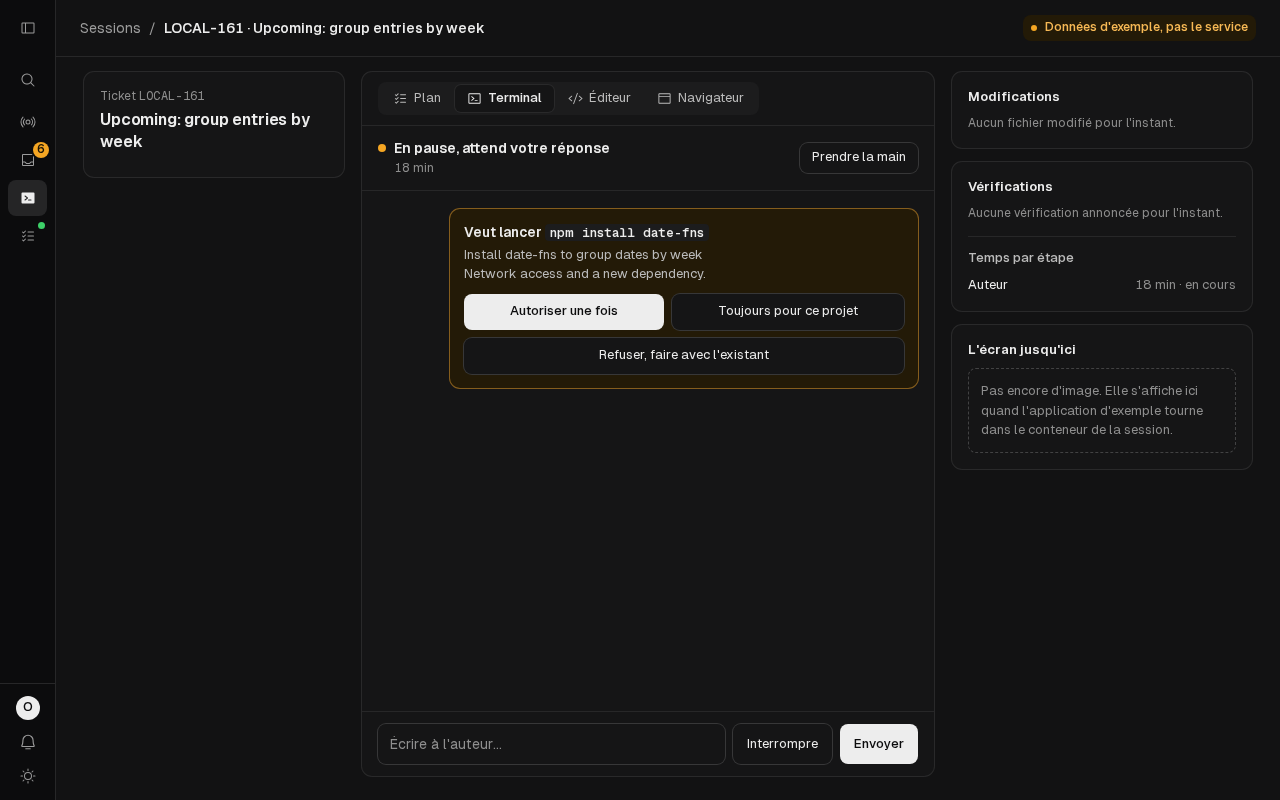
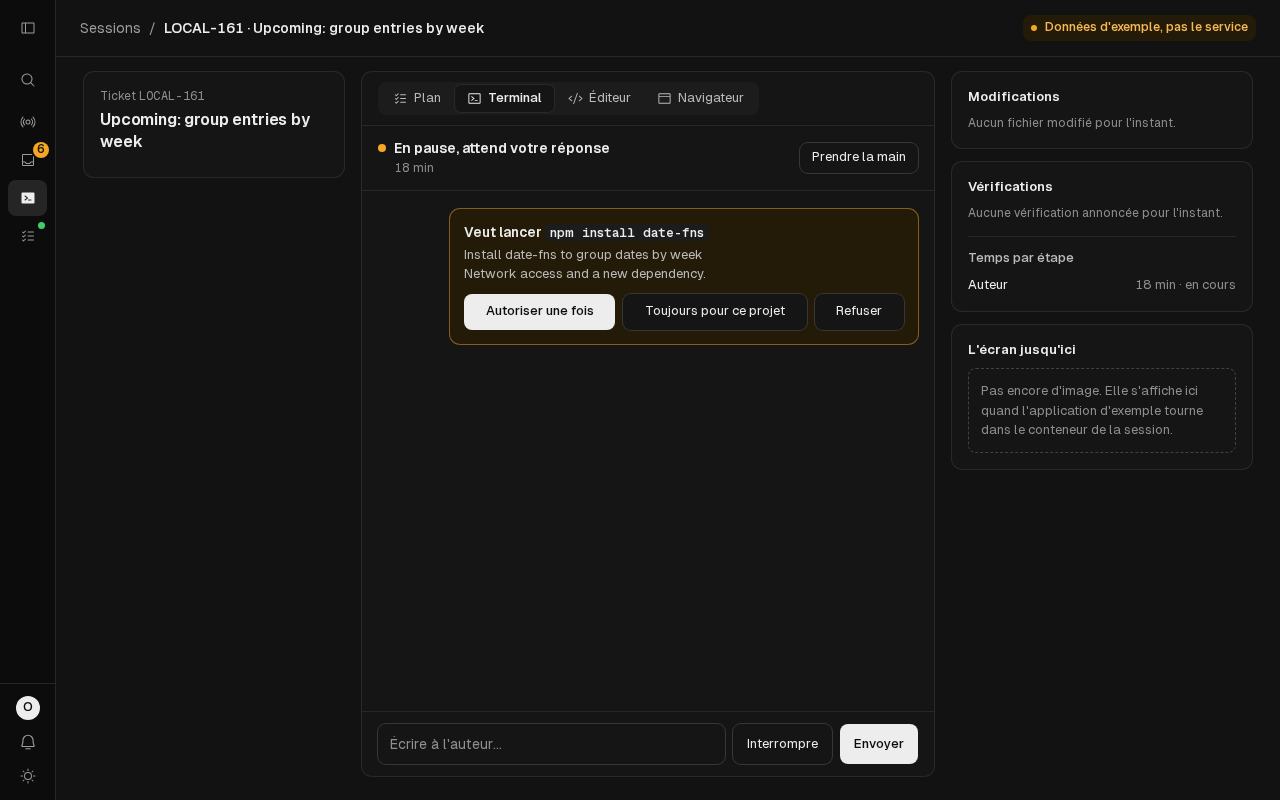
v2 ui inbox fr: the lane's log entry; the session's Deny a verb; a row's answer keeps the focus on the detail once the cache moves the item; the session's after captures again

Changed region(s): [[0.375, 0.3438, 0.6875, 0.4688]]

diff --git a/v2/app/web/screens/inbox/Inbox.tsx b/v2/app/web/screens/inbox/Inbox.tsx
@@ -316,7 +316,7 @@ function PermissionAnswers({ item, view, t, note, reason, onReason, onAct }: {
   const busy = local?.kind === 'busy';
   const status = <p className="d-note" id="d-note" role="status">{note}</p>;
   if (local?.kind === 'settled') return <><p className="d-done">{t('settled')}</p>{status}</>;
-  if (local?.kind === 'answered') return <><p className="d-done" id="d-done" tabIndex={-1}>{t(`answered_${local.decision}`)}</p>{status}</>;
+  if (local?.kind === 'answered') return <><p className="d-done" id="d-done">{t(`answered_${local.decision}`)}</p>{status}</>;
   if (item.state === 'handled') return <><p className="d-done">{t('handled_note')}</p>{status}</>;
   const act = (name: Answer, primary: boolean) => (
     <Button variant={primary ? 'ink' : 'outline'} className={primary ? 'btn primary' : 'btn'} data-act={name} disabled={busy} onClick={() => onAct?.(name)}
@@ -739,6 +739,16 @@ export default function Inbox() {
   // the request shown, Space peeks at the row walked to; Esc leaves the item,
   // never from a field (the text typed there stays). Handled here, the shell
   // leaves them alone (preventDefault).
+  // Once the answer is drawn, the detail takes the focus (the pressed button
+  // is gone with the answers); the detail's inside is drawn again when the
+  // cache moves the item to what was handled, the detail itself stays.
+  const focusDone = useRef(false);
+  useLayoutEffect(() => {
+    if (!focusDone.current || !document.getElementById('d-done')) return;
+    focusDone.current = false;
+    detail.current?.focus({ preventScroll: true });
+  });
+
   const keyState = useRef({ shown: undefined as Item | undefined, visible: false, busy: false });
   useEffect(() => {
     let lastG = -Infinity;
@@ -778,10 +788,10 @@ export default function Inbox() {
       const after = await run();
       change((next) => { if (after) next.set(item.id, after); else next.delete(item.id); });
       setNote('');
-      // An answer's line takes the focus, where the pressed button was, and is said once.
+      // The answer is said once, and the detail that shows it takes the focus.
       if (after?.kind === 'answered') {
         setSaid(t(`answered_${after.decision}`));
-        requestAnimationFrame(() => document.getElementById('d-done')?.focus({ preventScroll: true }));
+        focusDone.current = true;
       }
       if (gesture === 'plan_change' || gesture === 'contract_send_back') setMessage('');
       context.inboxChanged();
@@ -910,6 +920,7 @@ export default function Inbox() {
     if (location.hash !== `#${encodeURIComponent(item.id)}`) {
       peeking.current = true;                        // the answer's line takes the focus, not the detail
       location.hash = encodeURIComponent(item.id);
+      setHash(location.hash);                        // the detail shows it now, not at the hashchange (which would draw it again)
     }
     onAct(act, { reason: '', answers: noAnswers(undefined), message: '' }, item);
   };

diff --git a/v2/app/test/inbox/inbox-browser.test.ts b/v2/app/test/inbox/inbox-browser.test.ts
@@ -153,7 +153,7 @@ test('the "Traité" group is folded under what waits, with its count, and opens 
   });
 });
 
-test('a row\'s answer shows its item, says what it did there, and puts the focus on that line', { skip }, async () => {
+test('a row\'s answer shows its item, says what it did there, and puts the focus on its detail', { skip }, async () => {
   await withInbox(async (page, base) => {
     const sent: string[] = [];
     await page.route(/\/api\/service\/sessions\/[^/]+\/requests\/[^/]+\/answer$/, async (route: any) => {
@@ -166,7 +166,9 @@ test('a row\'s answer shows its item, says what it did there, and puts the focus
     await page.locator('#detail .d-done').waitFor();
     assert.match(await page.evaluate(() => document.location.hash), /request-review-1/, 'the answered item is the one shown');
     assert.equal((await page.locator('#detail .d-done').innerText()).trim(), 'Refusé. Le motif est transmis à la session.');
-    await page.waitForFunction(() => document.activeElement?.id === 'd-done', undefined, { timeout: 2000 });
+    await page.waitForFunction(() => document.activeElement?.id === 'detail', undefined, { timeout: 2000 });
+    await page.waitForTimeout(300);
+    assert.equal(await page.evaluate(() => document.activeElement?.id), 'detail', 'and it stays there once the cache has moved the item');
     assert.equal((await page.locator('#inbox-live').innerText()).trim(), 'Refusé. Le motif est transmis à la session.');
     assert.equal(sent.length, 1);
     assert.match(sent[0] ?? '', /\/requests\/request-review-1\/answer$/);

diff --git a/v2/app/web/test/session/render.test.tsx b/v2/app/web/test/session/render.test.tsx
@@ -36,7 +36,7 @@ test('the English screen reads as the capture, in milestone 1\'s words', () => {
     TICKET_TITLE, 'LOCAL-161', 'Done when', 'Entries grouped by week, Monday first', 'Same totals as today, a test proves it', 'Plan of the session',
     'Paused, waiting for you', '18 min · 35,500 tokens',
     'Read', 'src/screens/Upcoming.jsx', 'and 2 more files', 'Edit', 'src/engine/upcoming.mjs', '+24', '−6', 'Run the project\'s tests', 'npm run test:upcoming', '18 passed', QUESTION_TEXT, ANSWER_TEXT,
-    'Wants to run', 'npm install date-fns', 'Network access and a new dependency.', 'Allow once', 'Always in this project', 'Deny, use what we have',
+    'Wants to run', 'npm install date-fns', 'Network access and a new dependency.', 'Allow once', 'Always in this project', 'Deny',
     'Changes', 'Checks', 'Targeted tests', 'Full suite', 'Screen so far', 'Hand over to Codex', 'Interrupt', 'Send',
   ]) assert.ok(text.includes(expected), `missing: ${expected}`);
 });

diff --git a/v2/app/web/screens/inbox/inbox.css b/v2/app/web/screens/inbox/inbox.css
@@ -100,7 +100,6 @@
 .d-answers .btn kbd { background: transparent; box-shadow: inset 0 0 0 1px currentColor; color: inherit; opacity: .6; }
 .d-answers .deny-reason { flex: 1 1 240px; }
 .d-answers .deny-reason input { height: 44px; }
-.d-done:focus { outline: none; }
 .d-answers .d-done { flex: 1 1 100%; padding: var(--space-2) var(--space-3); border-radius: var(--radius); background: var(--sunken); }
 .d-actions:empty { display: none; }
 .fold { margin-top: var(--space-3); border-top: 1px solid var(--hairline); padding-top: var(--space-2); }

diff --git a/docs/v2/decisions-log.md b/docs/v2/decisions-log.md
@@ -3456,3 +3456,128 @@ The sidebar costs about 3 to 4 ms per switch on this server. Its props are kept 
 
 - Pull request: 251, against `v2`.
 - Author: Opus 5.5 (claude-opus-5-5), lane `v2-j2-ui-session-continuity`.
+
+## 2026-10-23: the inbox's requests in French, the reason by its code, the three answers, the "Traité" group, the whole app in French (the author's choices, lane 37, `v2-j2-ui-inbox-fr`)
+
+**Decision.** On 2026-10-23 between 02:30 and 04:30 (Europe/Paris), lane 37 of the interface overhaul ([ui-overhaul-plan.md](ui-overhaul-plan.md), section 7) delivers requirements 2.5.1 to 2.5.6 and decision U9 on the inbox, on lane 36's `lib/intent.ts` (pull request 251, merged into the lane through `origin/v2`).
+
+- **The title is the intent (2.5.1, U9).** A request's row and its detail are named by the app's sentence, computed from the command by lane 36's function, whatever the harness wrote ("Installer date-fns", "Lire l'historique et le diff du dépôt puis lancer les tests du projet"). The inbox reads `intent.ts` unchanged and adds three things in its own model (`permissionTitle`, `screens/inbox/model.ts`):
+  - French joins two intents with "puis" in a title and "puis à" after "Autoriser … à", so the preposition is repeated and the double "et" is gone (the critique). English keeps "and". The session screen's checks keep lane 36's "et".
+  - A command the table does not know is said by its first word ("Lancer docker"), not "docker …", which read as cut off.
+  - **A command the table cannot read whole is not summarised.** A write to a file (`>`, `>>` to anything but `/dev/null`), a substitution (`$( )`, a backtick), a heredoc, a process substitution, `eval` or `source`, a shell given `-c` or an interpreter given `-c` or `-e`: its title is "Lancer une commande composée" and its fold opens by itself (`opaque`, `foldOpen`). The audit showed `intent.ts` saying "Lire des fichiers" for `cat secrets.env > /tmp/x`; on the screen that approves the command, that would misstate it.
+  - The other tools say what they do: "Lire un fichier", "Modifier un fichier", "Lire une page du web", "Utiliser {tool}".
+- **The request as a question.** The detail's heading is the request asked of the person, naming who asks: "Autoriser le relecteur à lire l'historique et le diff du dépôt puis à lancer les tests du projet ?" (the author, the reviewer, the lead, the reader, or the session). The plan placed this question in the eyebrow above the intent title; the two would say the same thing twice, so the question is the heading and the eyebrow keeps the kind, the ticket and the session's link. A handled request is headed by its intent title.
+- **The command folded (2.5.2).** Under the facts, a `<details>` closed by default holds the command one part per line after its operator (`;`, `&&`, `||`, `|`), cut for display only by `commandParts`. Its summary shows the first part and how many more ("git log -5 --oneline +4"), so the person deciding sees that a chain hides more. It also holds the harness's own description ("Pour quoi faire") and, with no code, the policy's sentence.
+- **The reason by its code (2.5.3).** `PermissionItem.reasonCode` is added to the API types, optional, with its closed list `REASON_CODES` (`compound`, `not_allowed`, `network`, `dependency`, `outside_checkout`, `unknown`); `test/api/types.test.ts` pins it. The policy lane fills it; pull request 240 did not, so no service request carries it yet. The inbox says the codes it knows in French ("« git merge-base » n'est pas une commande que la politique autorise seule." names the part the policy's sentence names). Until the policy sends codes, the two rules whose meaning is one of them give it (`install.package` is `dependency`, `network` is `network`). Any other rule, an `unknown` code or a code the app does not know yet shows the policy's English sentence as written, in the fold under "Texte de la règle".
+- **The three answers (2.5.4).** "Autoriser une fois" (ink), "Toujours pour ce projet" and "Refuser" are at the top of the detail, before the facts, at every width; a browser test checks they are in the window without scrolling at 1440, 1280, 768 and 390. "Toujours pour ce projet" is the owner's wording, in the inbox, the session screen and the palette. From 1280 px each waiting request's row carries the same three answers, except the row of the request shown, whose answers are beside it (the audit: never twice). The list is 440 px wide from 1280 px so they hold on one line. A row's answer shows its item and says what it did there; a persistent live region says it once, and the focus goes to the detail. The detail's inside is drawn again when lane 34's optimistic cache moves the item to what was handled, so the focus stays on the detail region, which is not redrawn. The deny reason field sits under the answers ("Motif du refus (facultatif)"), and Enter in it refuses. The sticky bar at the detail's foot stays for the other kinds and holds nothing for a request.
+- **The "Traité" group (2.5.5).** What was handled and what expired sit in one group under what waits, folded by default with its count ("Traité · 2"), opened by its button, and opened by itself when the address names one of its items. Its rows are lighter and keep their intent title. What waits has a quiet heading with its count ("En attente · 6"). The API does not say whether a handled request was answered or expired (the store knows `handled_by`; `PermissionItem` has no outcome), so both read "ne vous attend plus": a follow-up below.
+- **The inbox's keys (issue 253, item 4).** `SCREEN_KEYS.inbox` in `shell/keys.ts` lists A ("Autoriser une fois la demande affichée"), T, R and Space (a peek: the walked row's item shown, the focus kept on the row, only where the detail sits beside the list). The inbox binds them itself (`inboxKey`), so the sheet lists exactly what is bound, on the inbox only, which a test holds both ways. A key right after a G belongs to the shell's chord, so G then T goes to the tower and never answers; A, T and R from another walked row do nothing (the person is reading that one). `keyLabel` writes Space as "Espace". Esc leaves the item but never from a field: the text typed in the deny reason, a Change or a Send back stays (lane 34's audit, P1).
+- **One name for the place.** The sidebar's "Réception" is now the top bar's, the back link's and the shortcut's name in French too; the sentences that said "la boîte de réception" say "la liste". The heading that repeated the top bar is gone (lane 35's art director).
+- **The list's look.** Rows on hairlines, as the tower's; the shown row filled (`--selected`), the keyboard's focus the app's outline ring, two looks (lane 34's art director); no row marked shown under 1024 px until one is open. One amber signal per waiting row, its kind as text, not a pill. The detail's type on lane 35's scale (20, 14 and 12 px, 400 and 550). On a phone the answers are one per row, the key caps hidden (also under `hover: none`), and the group's button and the fold's summary 44 px tall.
+- **French typography.** The inbox's French catalog has a narrow no-break space before "?", "!" and ";" and a no-break space before ":" and inside « », written as the escapes `\u202f` and `\u00a0`. The plan panel's keys keep the lead's catalog's values, which a test holds equal; aligning both is lane 38's.
+
+**The whole app in French (2.5.6).** `app/web/test/french.test.tsx` draws, in fr, on the fixtures:
+- the sign-in page and its three errors;
+- the tower, the sidebar and the sessions index;
+- a session;
+- the lead and both questions to the code;
+- the inbox: every kind, waiting and handled, each detail in thirteen local states;
+- the palette and the sheet on six screens;
+- the dates, the durations, the decimal comma, the space before % and the plural.
+
+It fails on any marked key (a key a catalog lacks) and on any text that is a catalog's English that French does not share; the fixtures' own words are data and pass. A template with no word of its own ("{n}%") is not read. The test is first run on the English app to prove it catches English. On the code before the lane it fails twice:
+- the tower calls a request "Permission" where the inbox says "Autorisation";
+- the inbox's sheet lists none of its own keys.
+
+No catalog key was missing: lanes 34 and 35's catalog test already held both catalogs alike. The French test's other findings, fixed in the catalogs:
+- "Mise en ligne" against "Mise en production" (tower, session);
+- "Toujours dans ce projet" (session, shell, inbox);
+- the session's "Deny, use what we have" / "Refuser, faire avec l'existant", now "Deny" / "Refuser" (a button is a verb; lane 36 left them to this lane).
+
+**Tests first.**
+- Node: `app/test/inbox/permission.test.ts` (12 tests: the table of shapes in both languages, what is not summarised, the other tools, the question, the fold, the reason by code and by rule and the fallback, the order and the group's count, the row's answers by width, the keys and the sheet, the G chord, Esc). Every test failed on the code before: the module had none of its functions. Also `test/api/types.test.ts` (the codes), `app/test/fixtures.test.ts` (the source's new items).
+- Vitest: `web/test/inbox/permission.test.tsx` (the row's answers in French, the detail's order, the fold's lines, the fallback, the handled and the answered request), `web/test/french.test.tsx`, and the inbox's older tests moved to the new contract with the screen's real translator (the shell's catalog under the inbox's).
+- Browser: `app/test/inbox/inbox-browser.test.ts` on the fixtures source in French, in the `browser` job's list:
+  - the reviewer's request at the four widths: its question, its answers in the window, its reason, its fold, the rows' answers;
+  - A through the answer route (stubbed in the page), R and Esc typed in the field staying there, G then T;
+  - the "Traité" group folded and opened;
+  - a row's answer said on its item, the focus on its detail and kept there once the cache has moved the item (it failed with the full Chromium build until the focus left the redrawn line).
+
+**The fixtures.** `app/fixtures/inbox.ts` gains `requestItems` (the owner's capture of 22:02 as the reviewer's compound request with `reasonCode: 'not_allowed'` and no description; a request answered earlier; one expired with its session), which the fixtures source lists on its own sessions. The tower's "needs you" and the sidebar's count grow by one (6).
+
+**What lane 37 touched beyond its file list, and why.**
+- `v2/app/web/shell/keys.ts`: the inbox's entries in `SCREEN_KEYS`, two `Action` kinds (`answer`, `peek`), and Space in `keyLabel`. Lane 35 left that table for this lane.
+- `v2/app/fixtures/source.ts`: the source lists the new requests, so the captures and the browser test have them.
+- `v2/app/test/fixtures.test.ts`: the source's list.
+- `v2/app/test/inbox/train.test.ts` and `v2/app/web/test/{render.tsx,inbox/*.test.tsx,session/render.test.tsx}`: `itemTitle` takes the translator; `renderInbox` takes the group's state; the screen's translator; the session's button label.
+- `v2/app/messages/{shell,tower,session}.fr.json` and `session.en.json`: the French test's findings and the keys' labels.
+- `v2/scripts/capture-screens.ts`: three captures named only (`inbox-permission`, `inbox-handled`, `sheet-inbox`).
+- `.github/workflows/v2.yml`: the new browser file in the `browser` job's list.
+
+**Measures** (the `browser` job's budget test in CI mode with the full Chromium, three runs of twenty switches, p95 each; this server; `origin/v2` measured beside it in a throwaway detached worktree):
+
+| Measure | `origin/v2` (`e6446c2`) | This branch | Budget |
+| --- | --- | --- | --- |
+| Median of the runs' p95 | 31.1 ms (30.9, 32.9, 31.1) | 26.1 ms (26.1, 28.0, 26.0) | under 100 ms |
+| Median switch, per run | 22.0, 20.3, 19.4 ms | 17.7, 17.9, 17.2 ms | |
+| Documents loaded in twenty switches | 0 | 0 | 0 |
+| Requests to the API per switch, at most | 1 | 1 | 1 |
+
+**Impeccable.**
+- Install: 4.7.0 in the lane's worktree with the owner's command, `DO_NOT_TRACK=1`. Its paths were already in the shared exclude file and are in no commit. The installer's hooks file (`.claude/settings.local.json`) was removed before any edit, so no hook ran. The skill launcher first resolved the server's global 4.4.0 copy; the lane used the worktree's 4.7.0 scripts and references only.
+- `init` and `document`: `init` wrote `PRODUCT.md` from the plan with no interview (the plan's section 6 fixes its inputs), with this lane's surface. `document` recorded lane 35's tokens and the inbox's sheet in `DESIGN.md`. The detector (`impeccable detect`) found nothing in the inbox's files; on `app.css` it flags Geist and Geist Mono, false positives (the brief).
+- `audit` and `harden`, a fresh agent: 14 of 20 (accessibility 3, performance 3, theming 3, responsive 3, integrity 2). Fixed:
+  - P1, the title misstating a command (above);
+  - P1, a row's answer reported on another item;
+  - P1, focus and the announcement lost after an answer;
+  - P2, the answers twice on the shown row;
+  - P2, A from another row;
+  - P2, the 44 px targets;
+  - P2, Space below 1024 px;
+  - P2, the detail's type off the scale;
+  - P3, a row marked shown on a phone, "docker …", the empty quotes of a reason for a tool, the French spacing;
+  - harden: the load error that promised a retry now offers "Réessayer"; Enter in the deny reason refuses.
+- `audit` and `harden`, left:
+  - P2, "Toujours pour ce projet" on a row: kept, the plan's 2.5.4 and the owner's question 4 default;
+  - P2, the older sheet's hard-coded colours (lines 5, 6, 143, 144): lane 38's;
+  - P3, the loading state's empty `aria-busy` and the titles computed at each tick of the grace clock;
+  - harden P2, the outcome of a handled request: the API.
+- `critique`, a fresh agent: 25 of 40 before the fixes. Taken:
+  - the reason missing at the top (the rule's code);
+  - the fold hiding the chain's other parts;
+  - the grammar;
+  - French typography;
+  - a row's answer giving no feedback;
+  - the rows' answers as quiet outline buttons;
+  - "Mise en ligne";
+  - the type scale;
+  - key caps on a phone;
+  - the deny field's words and place;
+  - one amber signal;
+  - the copy: `empty_note` gone, "Réglé depuis la session.", "Texte de la règle", "Autorisé pour ce projet. La session continue.", "Refusé. Le motif est transmis à la session.", "Traité.";
+  - the shown fill on a phone.
+- `critique`, left:
+  - the outcome per handled row (the API);
+  - a grace and Undo for "Toujours pour ce projet" (a service change: the answer is written at once);
+  - the scope a "Toujours" writes, named on the button (the policy's `patternOf` saves the whole compound command, pull request 240's follow-up);
+  - "auteur en pause" kept, since the proof scripts read a row by "`{ticket} · `";
+  - typographic apostrophes, across every catalog: lane 38.
+- `polish`: one bounded pass on the captures: the row answers on one line from 1280 px, the phone's answers one per row, the facts' label column, the pointer left over a row by the capture script. The reports were relayed in the lane's session and are not committed.
+
+**Checks.** On this server:
+- `npm run typecheck`.
+- `npm test`: 1359 node tests, 1334 pass, 25 skipped (the browser tests), 0 fail; 218 Vitest tests pass.
+- The `browser` job's nine files by hand with the full Chromium build the CI installs, twice: 23 tests, 23 pass. With the headless shell, the notification test fails for want of a push service, the same on `origin/v2`.
+- `npm run guard -- --base origin/v2`: nothing refused.
+- The capture script on the fixtures source: no page error, no request off the origin.
+- Before captures: `docs/v2/ui-overhaul/before/37/` (24 files: the inbox, a request selected, the palette over the inbox; the source had no handled item before this lane, so there is no "before" of the group).
+- After captures: `docs/v2/ui-overhaul/after/37/` (72 files, in French: the five screens, the reviewer's request selected, the "Traité" group opened, the palette and the sheet over the inbox, at 1440, 1280, 768 and 390, light and dark). Each was looked at for secrets and names.
+
+**Followups.**
+1. **The tower and the palette still title a request by the harness's words or the raw command, with the policy's English sentence as its line** (`screens/tower/model.ts`, `need()`, case `permission`; the palette reads the same needs). With the new fixture request, the tower shows "git log -5 --oneline; git merge-base main HEAD; …". `permissionTitle` and `reasonOf` are exported from `screens/inbox/model.ts` for it. Lane 38 is working on the tower in the same wave, so this lane did not edit it.
+2. `lib/intent.ts` itself misreads what the inbox now refuses to summarise (a write redirect, a substitution, a heredoc, `sh -c`), and strips `sudo` and `--force` silently. The session screen's checks and commands use it as is. Lane 36's file.
+3. The outcome of a handled request (answered once, always, denied, expired) and when: `PermissionItem` needs `outcome` from the store's `handled_at` and `handled_by`, then the "Traité" rows can say it.
+4. The policy's `reasonCode`: the policy lane fills it (`compound`, `not_allowed` with the asking part, `network`, `dependency`, `outside_checkout`); `RULE_CODES` in the inbox's model can then go.
+5. The session screen's request card keeps the raw command as its title and the harness's English: lane 36 left the question-shaped title to this lane, but it is the session screen's file. `permissionAsk` is exported for it.
+
+- Author: Opus 5.5 (claude-opus-5-5), lane `v2-j2-ui-inbox-fr`.
